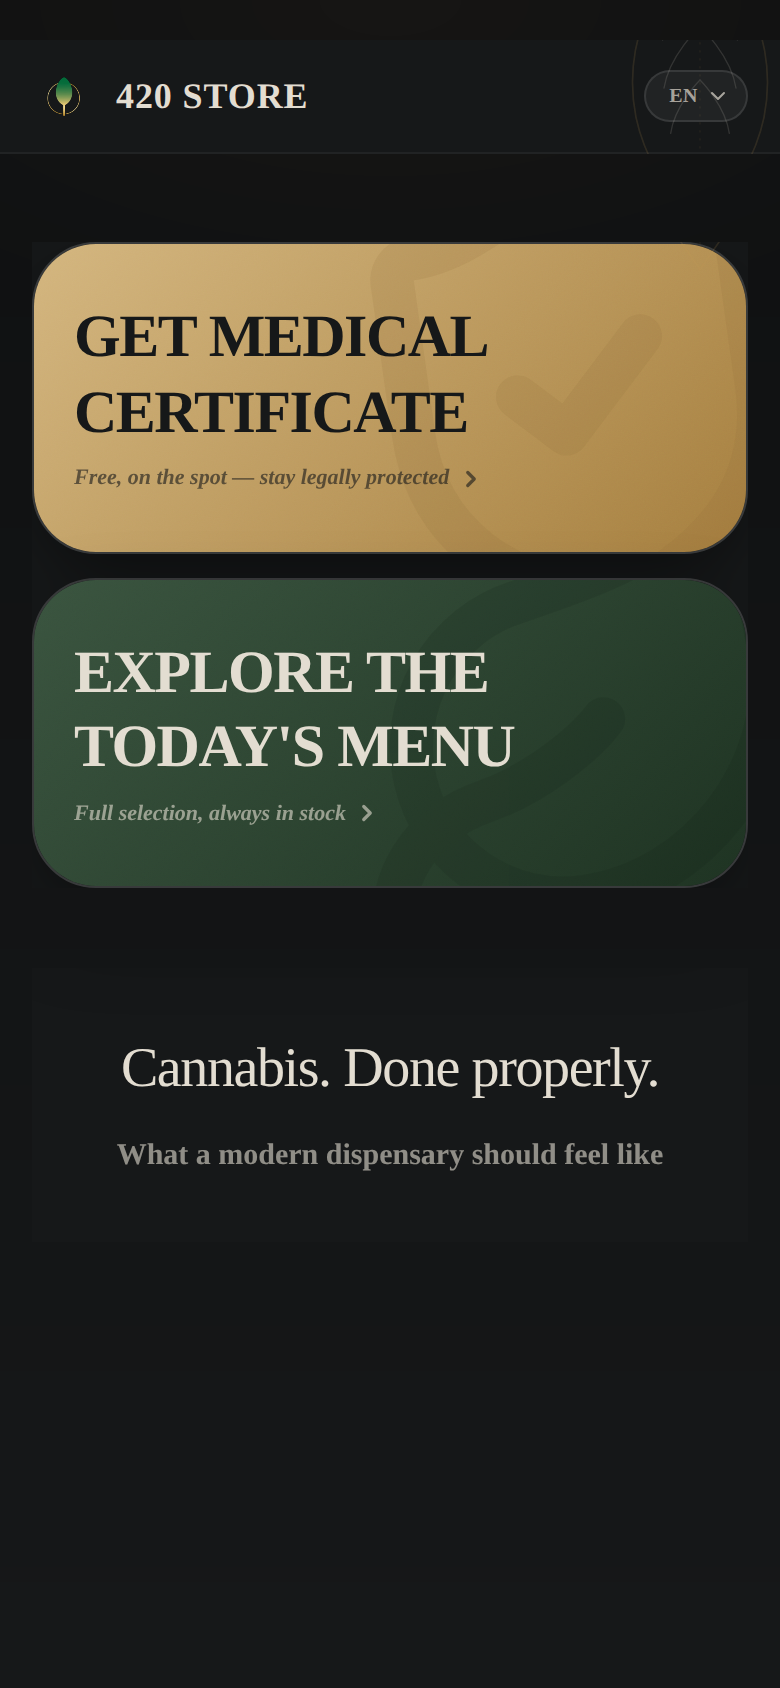
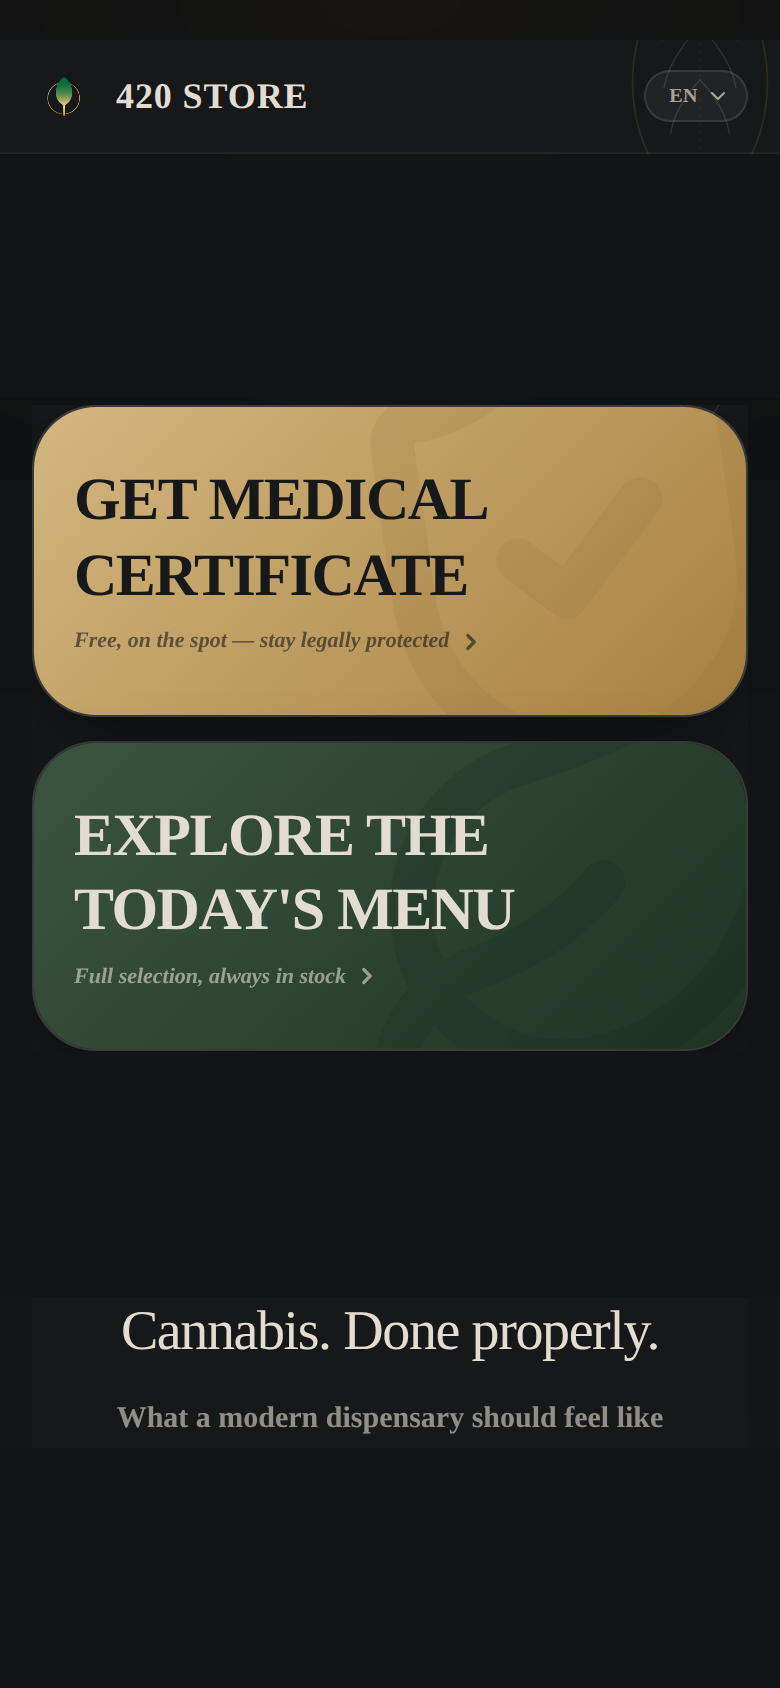
Rebalance "what your customer sees" block header and mockup layout
- Drop the trailing period and switch to singular "customer" to match
  the "your dispensary" address used earlier on the page, across
  en/ru/th.
- Render the heading as two lines (THIS IS WHAT / YOUR CUSTOMER SEES)
  at a larger size so it holds up against the large phone mockup.
- Recompose the mockup screenshot so the header stays pinned to the
  top while the cards and tagline are spaced evenly down to the
  bottom edge, instead of packing everything under the header with
  empty space below.

diff --git a/src/lib/partners/translations.ts b/src/lib/partners/translations.ts
@@ -28,7 +28,7 @@ export const partnersTranslations: Record<Language, PartnersDictionary> = {
     heroTitle: "Не просто сайт. Система, на которой держится ваш диспенсари.",
     heroSubtitle: "Статус медицинского допуска · Цифровое меню · Адрес, часы работы и отзывы — полностью по законам Таиланда.",
 
-    block1Title: "Вот что видят ваши клиенты.",
+    block1Title: "Вот что видит\nваш клиент",
     block1Cta: "Открыть живой пример",
 
     block2Title: "Вот что видит ваш персонал",
@@ -46,7 +46,7 @@ export const partnersTranslations: Record<Language, PartnersDictionary> = {
     heroTitle: "Not just a website. The system your dispensary runs on.",
     heroSubtitle: "Medical pass status · Digital menu · Address, hours & reviews — fully compliant with Thai law.",
 
-    block1Title: "This is what your customers see.",
+    block1Title: "This is what\nyour customer sees",
     block1Cta: "See the live example",
 
     block2Title: "Here's what your staff sees",
@@ -64,7 +64,7 @@ export const partnersTranslations: Record<Language, PartnersDictionary> = {
     heroTitle: "ไม่ใช่แค่เว็บไซต์ แต่คือระบบที่ร้านกัญชาของคุณใช้ขับเคลื่อนธุรกิจ",
     heroSubtitle: "สถานะบัตรทางการแพทย์ · เมนูดิจิทัล · ที่อยู่ เวลาทำการ และรีวิว — ถูกต้องตามกฎหมายไทยครบถ้วน",
 
-    block1Title: "นี่คือสิ่งที่ลูกค้าของคุณเห็น",
+    block1Title: "นี่คือสิ่งที่ลูกค้าของคุณ\nเห็น",
     block1Cta: "ดูตัวอย่างจริง",
 
     block2Title: "นี่คือสิ่งที่พนักงานของคุณเห็น",

diff --git a/src/components/partners/DeviceMockup.tsx b/src/components/partners/DeviceMockup.tsx
@@ -6,8 +6,11 @@ import { motion } from "framer-motion"
 // Composited screenshot of buds.digital (header + hero cards + the
 // "Cannabis. Done properly." tagline, padded out to a true iPhone 13/14
 // screen ratio of 390x844) assembled from the live homepage and wrapped in
-// a minimal device frame. Recapture and swap the PNG in
-// public/images/partners/customer-view.png whenever the live design changes.
+// a minimal device frame. The header stays pinned to the top; the cards
+// and tagline blocks are then spaced evenly (space-evenly) down to the
+// bottom edge instead of packing everything under the header. Recapture
+// and swap the PNG in public/images/partners/customer-view.png whenever
+// the live design changes, keeping that same even distribution.
 export function DeviceMockup() {
   // Drives the light-sweep off the frame's own viewport entry instead of a
   // second, independently-observed whileInView on the (absolutely

diff --git a/src/components/partners/PartnersClient.tsx b/src/components/partners/PartnersClient.tsx
@@ -69,7 +69,7 @@ export default function PartnersClient() {
 
         <div className="gradient-ring rounded-card">
         <section className="p-5 rounded-card bg-white/5">
-          <h2 className="text-lg font-black uppercase tracking-tight text-brand-light mb-4">
+          <h2 className="text-2xl sm:text-3xl font-black uppercase tracking-tight leading-tight text-brand-light mb-5 whitespace-pre-line">
             {t.block1Title}
           </h2>
           <DeviceMockup />
